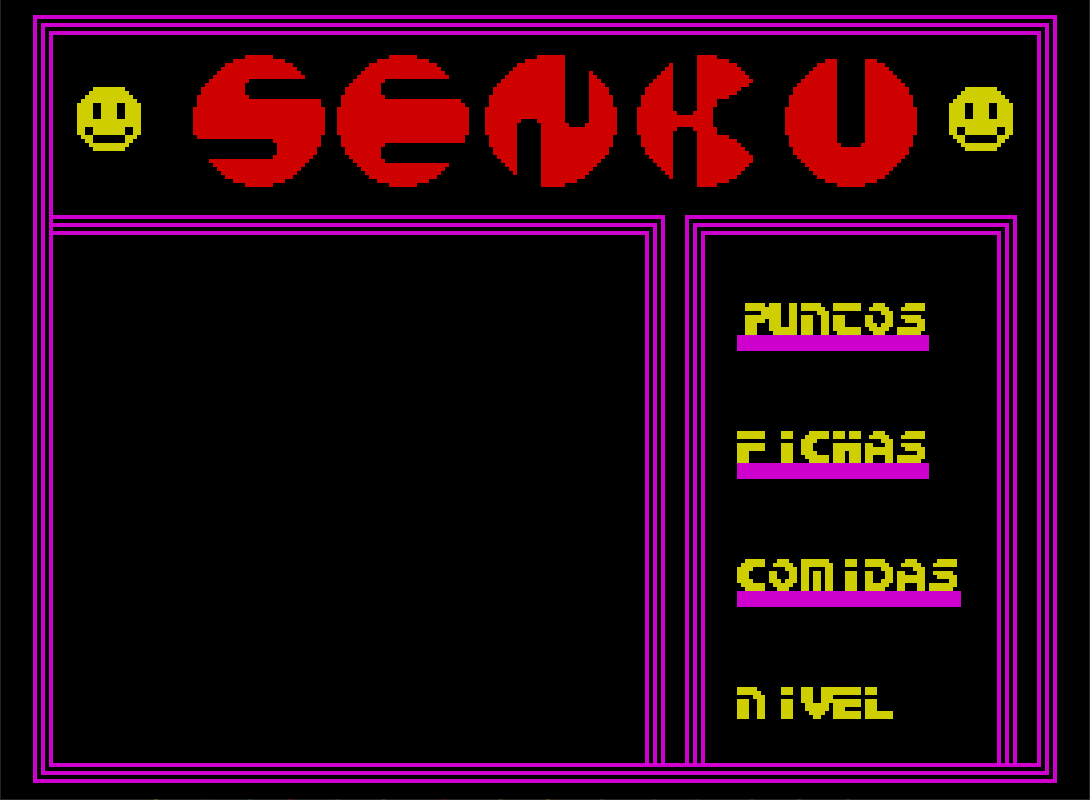
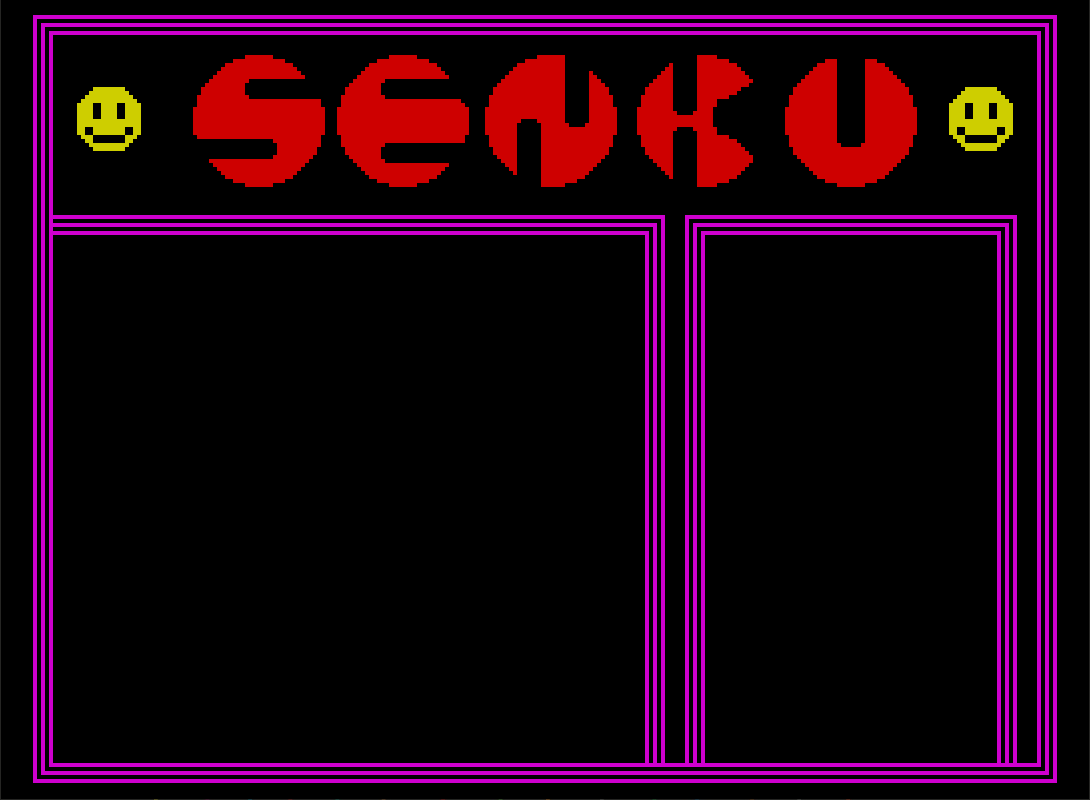
Segunda Versión Gráfica Incluye niveles, presentación de niveles y felicitaciones.

diff --git a/Senku_Grafico.py b/Senku_Grafico.py
@@ -3,6 +3,7 @@ import pygame as pg
 pg.init()
 
 fondo = pg.image.load('fondo.png')
+
 # fichas
 anchoficha = 60
 altoficha = 60
@@ -11,12 +12,16 @@ o = pg.image.load('o.png')
 Y = pg.image.load('Y.png')
 esp = pg.image.load('esp.png')
 # textos
-fuente = pg.font.SysFont('Impact', 36)
-texto = fuente.render('Some Text', True, (0, 0, 0))
+fuente36 = pg.font.Font('8-BIT-WONDER.TTF', 36)
+fuente24 = pg.font.Font('8-BIT-WONDER.TTF', 24)
+
+# Colores
+Negro = (0, 0, 0)
+Amarillo = (206, 206, 0)
+Violeta = (206, 0, 206)
 
 
 class Ficha:
-
     def __init__(self, valor, fil, col):
         self.valor = valor
         self.col = col
@@ -28,7 +33,6 @@ class Ficha:
 
 
 class Tabla:
-
     def __init__(self, t):
         tab = []
         fila = 0
@@ -50,26 +54,45 @@ class Tabla:
         self.anterior = ""
         self.fichas = len(t) - len(t.replace('x', ''))
         self.comidas = 0
+        self.puntaje = 0
 
     def redibujar(self):
-        def texto(t: str, x: int, y: int):
-            texto = fuente.render(t, False, (255, 255, 0))
+        def valor(t: str, y: int):
+            x = 910
+            texto = fuente36.render(t, True, Amarillo)
+            ancho = texto.get_width()
+            pantalla.blit(texto, (x - ancho, y))
+            pg.draw.rect(pantalla, Negro, (x - ancho - 2, y + 20, texto.get_width() + 4, 3))
+
+        def titulo(t: str, y: int, sub: bool = True, ):
+            x = 720
+            texto = fuente36.render(t, True, Amarillo)
+            ancho = texto.get_width()
             pantalla.blit(texto, (x, y))
+            pg.draw.rect(pantalla, Negro, (x - 2, y + 15, ancho + 4, 5))
+            if sub: pg.draw.rect(pantalla, Violeta, (x, y + texto.get_height() + 2, 260, 10))
 
         pantalla.blit(fondo, (0, 0))
         for l in self.t:
             for f in l:
                 pantalla.blit(f.foto, (f.px, f.py))
                 f.rc.move(f.px, f.py)
-        texto(str(self.fichas), 820, 480)
-        texto(str(self.comidas), 820, 610)
+
+        titulo("PUNTOS", 250)
+        valor(str(self.puntaje), 305)
+        titulo("FICHAS", 360)
+        valor(str(self.fichas), 415)
+        titulo("COMIDAS", 470)
+        valor(str(self.comidas), 525)
+        titulo("NIVEL ", 580)
+        valor(str(nivel), 635)
 
     def mover(self, f):
         def pone(f, v):
             self.t[f.fil][f.col] = Ficha(v, f.fil, f.col)
 
         def marca(f):
-            if self.anterior != "":
+            if self.anterior:
                 pone(self.anterior, 'x')
             pone(f, 'Y')
             self.anterior = f
@@ -108,42 +131,90 @@ class Tabla:
             self.anterior = f
             self.fichas -= 1
             self.comidas += 1
-            pg.mixer.music.load('ok.mp3')
-            pg.mixer.music.play(0)
+            self.puntaje += 100
+            if sonido != 0:
+                pg.mixer.music.load('ok.mp3')
+                pg.mixer.music.play(0)
             if self.fichas == 1:
-                return "fin"
+                return "Next"
+
+
+def jugar(n):
+    pantalla.blit(fondo, (0, 0))
+    mensaje("NIVEL " + str(n), 350, 450, 2000)
+    senku = Tabla(niveles[n])
+
+    senku.redibujar()
+
+    while True:
+        for event in pg.event.get():
+            if event.type == pg.QUIT:
+                return "salir"
+            if event.type == pg.MOUSEBUTTONUP:
+                pos = pg.mouse.get_pos()
+                for fila in senku.t:
+                    for f in fila:
+                        if f.rc.collidepoint(pos):
+                            if f.valor != "esp":
+                                m = senku.mover(f)
+                                if m == "Next":
+                                    return "Next"
+                                senku.redibujar()
+            keys = pg.key.get_pressed()
+            if keys[pg.K_s]:
+                return "s"
+        pg.display.flip()
+
+
+def mensaje(t, x, y, tiempo: int = 0):
+    texto = fuente24.render(t, True, Amarillo)
+    ancho = texto.get_width() / 2
+    pantalla.blit(texto, (x - ancho, y))
+    pg.draw.rect(pantalla, Negro, (x - ancho - 2, y + 14, texto.get_width() + 4, 3))
+    if tiempo != 0:
+        pg.display.flip()
+        pg.time.delay(tiempo)
+
+
+def felicitaciones(n):
+    pg.draw.rect(pantalla, Negro, (60, 250, 580, 500))
+    mensaje("FELICITACIONES II", 350, 350)
+    mensaje("HAS VENCIDO EL NIVEL " + str(n), 350, 450)
+    bono = (n + 1) * 100
+    mensaje("RECOMPENSA " + str(bono) + " PUNTOS", 350, 550, 3000)
 
 
 niveles = []
+niveles.append("       ,       , xxo   ,       ,       ,       ,       ")
+niveles.append("       ,   x   , xxo   ,   o   ,       ,       ,       ")
 niveles.append("  oxo  ,  xoxo ,oxoxo  ,xox    ,oxoxo  , ox x  ,    oxx")
 niveles.append("  ooo  , oxxo  ,xxooo  ,  xox  ,  ooo  , oooxx , xxooo ")
 niveles.append("   x   ,   x   ,  ooo  , oxxxo ,oxooxoo,ooxoxxo,   o   ")
 niveles.append(" oxoxo , ooxxo , xxoxo , oxooo ,  ooo  ,ooooooo,       ")
 niveles.append("ooooooo,xxoooxo,oxo xoo,ooxoxxo,ooo oox,xxo xxo,xoxooxx")
+niveles.append("  xx   ,o oxxo ,xoox o ,  xx   , ooo   , x x   ,ox oxo ")
+niveles.append("       , o o x , oxoxo , oxoxx , oooox , xoooo ,xxoxoxo")
+niveles.append("xoo    ,oxx    ,oxo    ,ooxo   ,ooooxoo,xxoxxxo,oxoooox")
+niveles.append("oxoxooo,xxoxoxx,oxxooxo,   oox ,    xx ,    xo ,       ")
+niveles.append("   o   ,  xxx  ,  xxx  ,  xoo  ,  xxo  , ooooo ,xxo oxx")
+niveles.append("   o   ,  xxo  , ooxoo ,ooxoooo,  oxo  ,  xxx  ,  xxx  ")
+niveles.append(" x o   , x o   ,oooxox ,xoooxo ,oxxxoo ,oxxxox ,oxxxoo ")
+niveles.append(" oxo  x, xox  x, ooxoxo, xxxoxo, xoooox,    xxo,       ")
+niveles.append("     x , oxoxo , oxoxx , oxxox , xoxxo ,xxoxxxx,       ")
 niveles.append("  xxx  ,  xxx  ,xxxxxxx,xxx0xxx,xxxxxxx,  xxx  ,  xxx  ")
 
 # Parte gráfica
-size = 800, 600
 pantalla = pg.display.set_mode((1090, 800))
 pg.display.set_caption('SENKU - La revancha')
-pantalla.blit(fondo, (0, 0))
-senku = Tabla(niveles[0])
-senku.redibujar()
+nivel = 0
+sonido = 0
 
-run = True
-while run:
-    for event in pg.event.get():
-        if event.type == pg.QUIT:
-            run = False
-        if event.type == pg.MOUSEBUTTONUP:
-            pos = pg.mouse.get_pos()
-            for fila in senku.t:
-                for f in fila:
-                    if f.rc.collidepoint(pos):
-                        if f.valor != "esp":
-                            senku.mover(f)
-                            senku.redibujar()
-        if event.type == pg.K_s:
-            pg.quit()
-    pg.display.flip()
+while True:
+    r = jugar(nivel)
+    if r == "Next":
+        felicitaciones(nivel)
+        nivel += 1
+    elif r == "salir":
+        print("El SENKU te ha vencido!")
+        break
 pg.quit()
